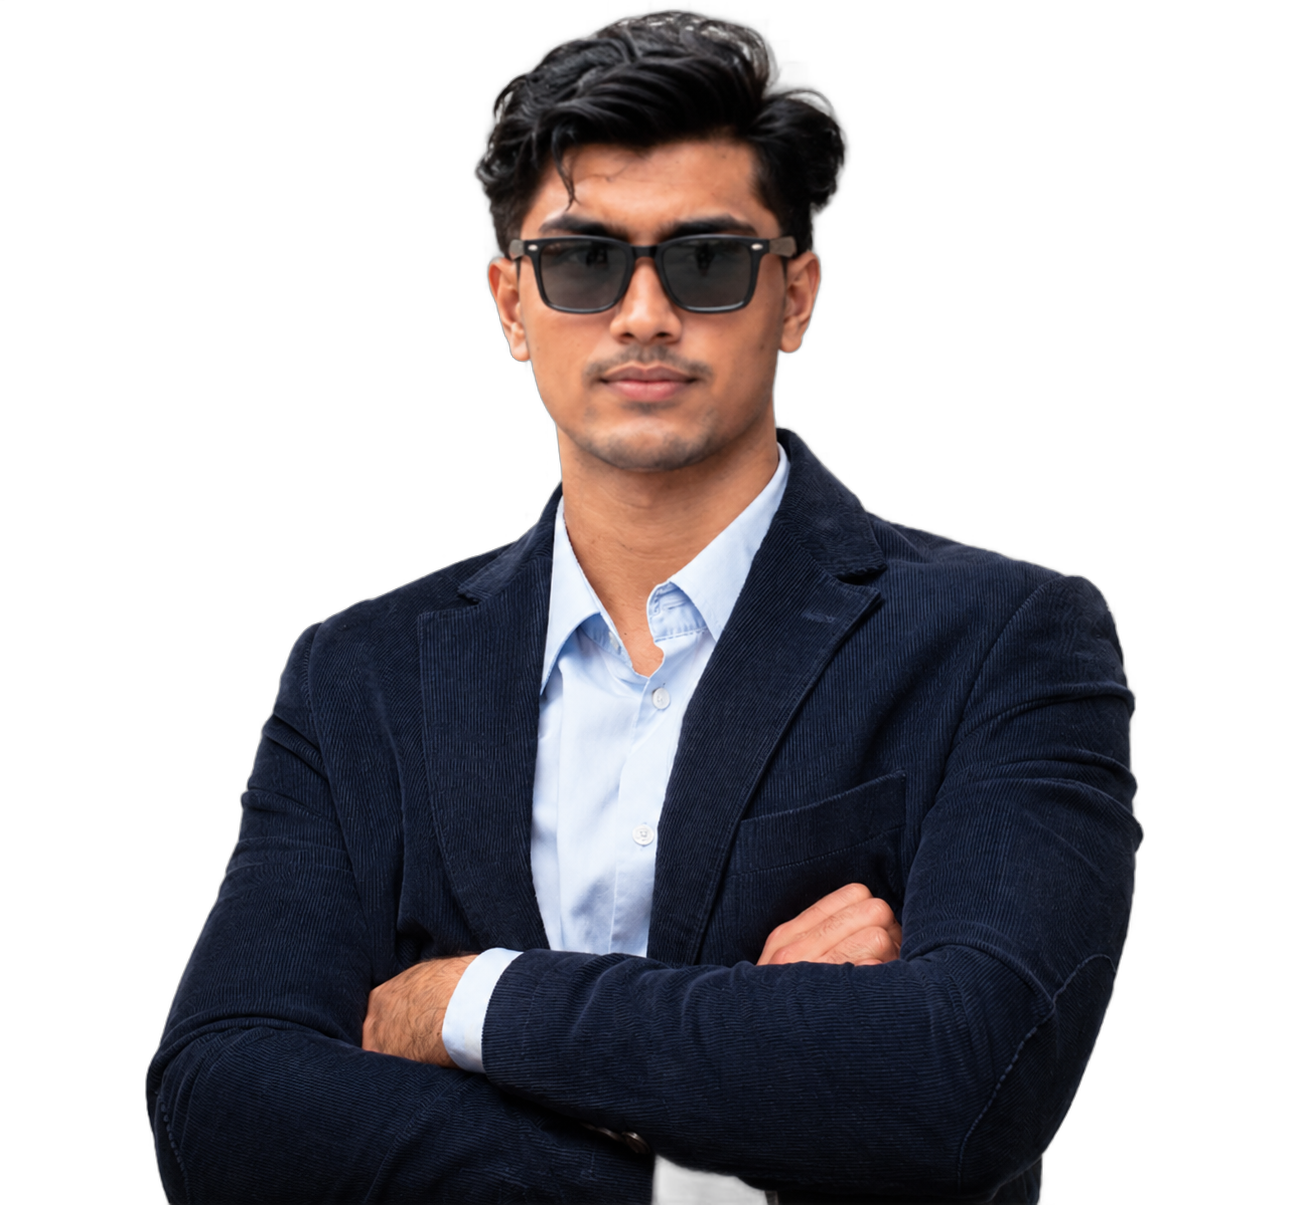
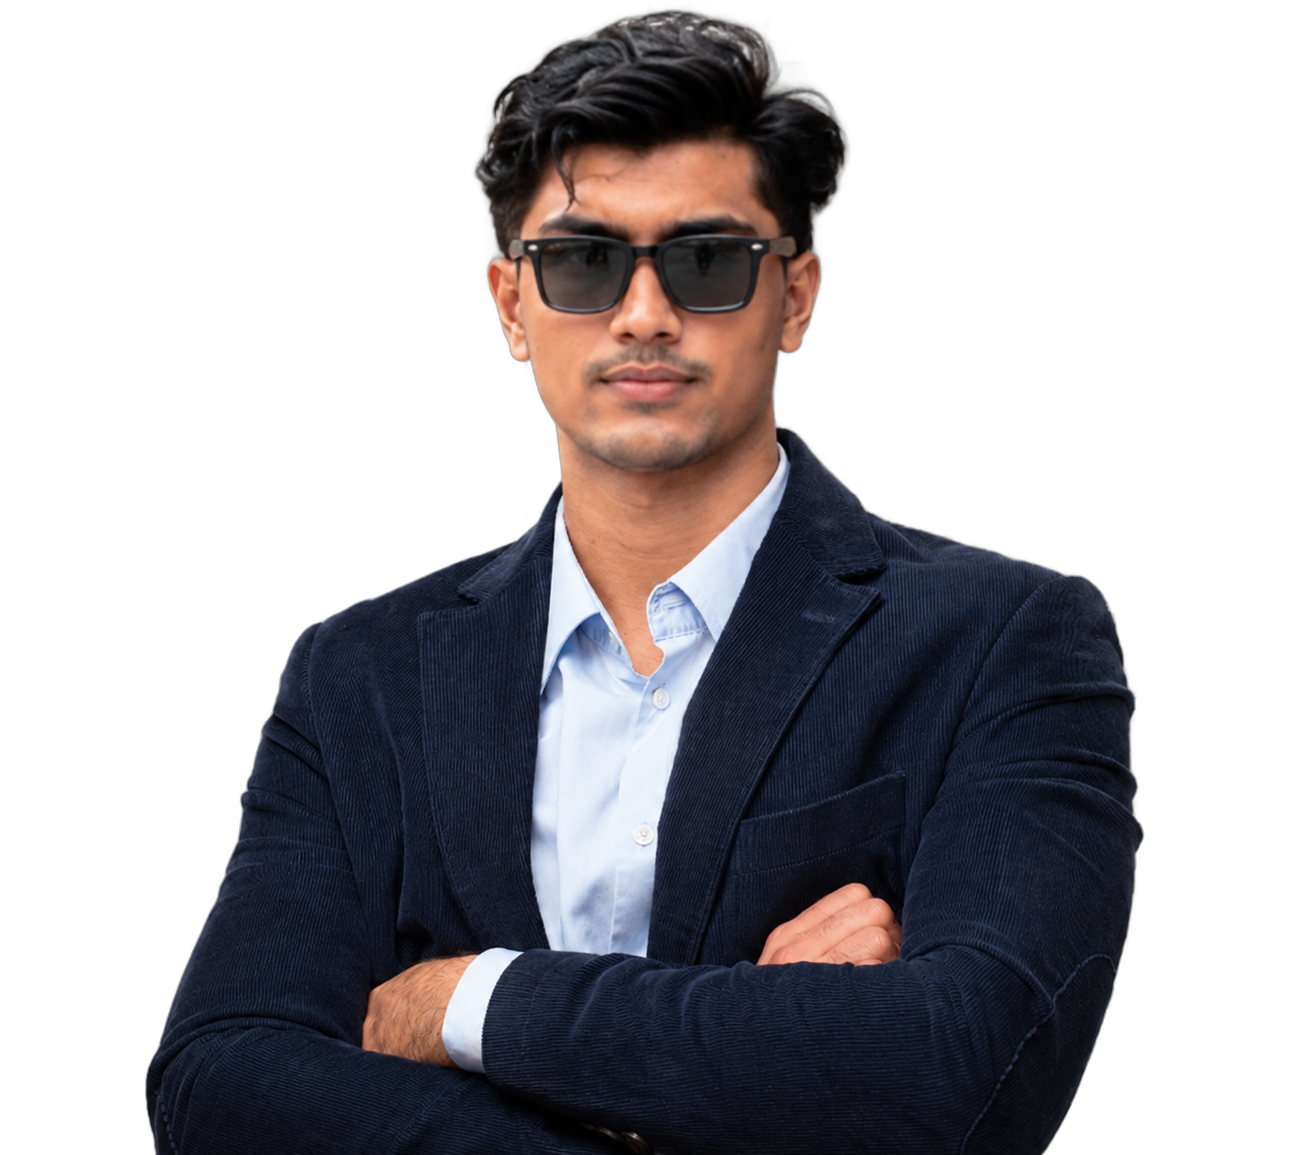
Add skills section and styles

diff --git a/index.html b/index.html
@@ -83,6 +83,44 @@
             
             </div>
         </section>
+
+   <section id="skills">
+
+        <div class="skills-container">
+            
+            <div class="section-heading">
+                <h2>What I do</h2>
+                <p>I am enjoying my journey of learning web development and exploring different web technologies. I have gained knowledge in some areas and am continuously working to learn more. I love discovering new concepts, practicing my skills, and turning ideas into creative projects. My goal is to keep learning, growing, and becoming a skilled web developer.</p>
+            </div>
+
+            <div class="skills-box">
+                <div class="skill-card">
+                    <img src="images/icons/html-5.png" alt="">
+                    <h3>HTML</h3>
+                    <p>I can build semantic HTML structures and write clean, meaningful code to create well-organized web pages with proper elements.</p>
+                </div>
+                <div class="skill-card">
+                    <img src="images/icons/css.png" alt="">
+                    <h3>CSS</h3>
+                    <p>I have learned intermediate-level CSS and am gradually advancing through regular practice.</p>
+                </div>
+                <div class="skill-card">
+                    <img src="images/icons/github.png" alt="">
+                    <h3>GitHub</h3>
+                    <p>I can use GitHub to manage my projects and continuously explore new features while improving my version control skills.</p>
+                </div>
+                <div class="skill-card">
+                    <img src="images/icons/js.png" alt="">
+                    <h3>HTML</h3>
+                    <p>I am at the beginning of learning JavaScript and continuously practicing to understand and master its core concepts.</p>
+                </div>
+              
+            </div>
+
+        </div>
+
+   </section>
+
     </main>
 </body>
 </html>

diff --git a/Style/portfolio.css b/Style/portfolio.css
@@ -29,6 +29,7 @@
 .section-heading{
     width: 827px;
     text-align: center;
+    margin: 0 auto;
 }
 
 .section-heading h2{
@@ -98,7 +99,6 @@ nav .menu a{
     display: flex;
     justify-content: space-between;
     align-items: center;
-    gap: 163px;
 }
 
 .banner-content{
@@ -162,4 +162,45 @@ nav .menu a{
 .about-info .info-card h4{
     font-size: 20px;
     color: #474747;
+}
+
+/* ==== SKILLS SECTION ==== */
+#skills{
+    padding-top: 130px;
+}
+
+#skills .skills-container{
+    width: 71%;
+    max-width: 1140px;
+    margin: 0 auto;
+}
+
+#skills .skills-container .skills-box{
+    display: flex;
+    gap: 24px;
+}
+
+.skills-container .skills-box .skill-card{
+    padding: 30px;
+    max-width: 267px;
+    /* border: 1px solid tomato; */
+    box-shadow: 0 6px 30px 0 #00000031;
+   
+}
+
+.skills-box .skill-card img{
+    width: 44px;
+    margin-bottom: 20px;
+}
+
+.skills-box .skill-card h3{
+    font-size: 20px;
+    color: #181818;
+    margin-bottom: 20px;
+}
+.skills-box .skill-card p{
+    font-size: 16px;
+    color: #757575;
+    line-height: 28px;
+   
 }
